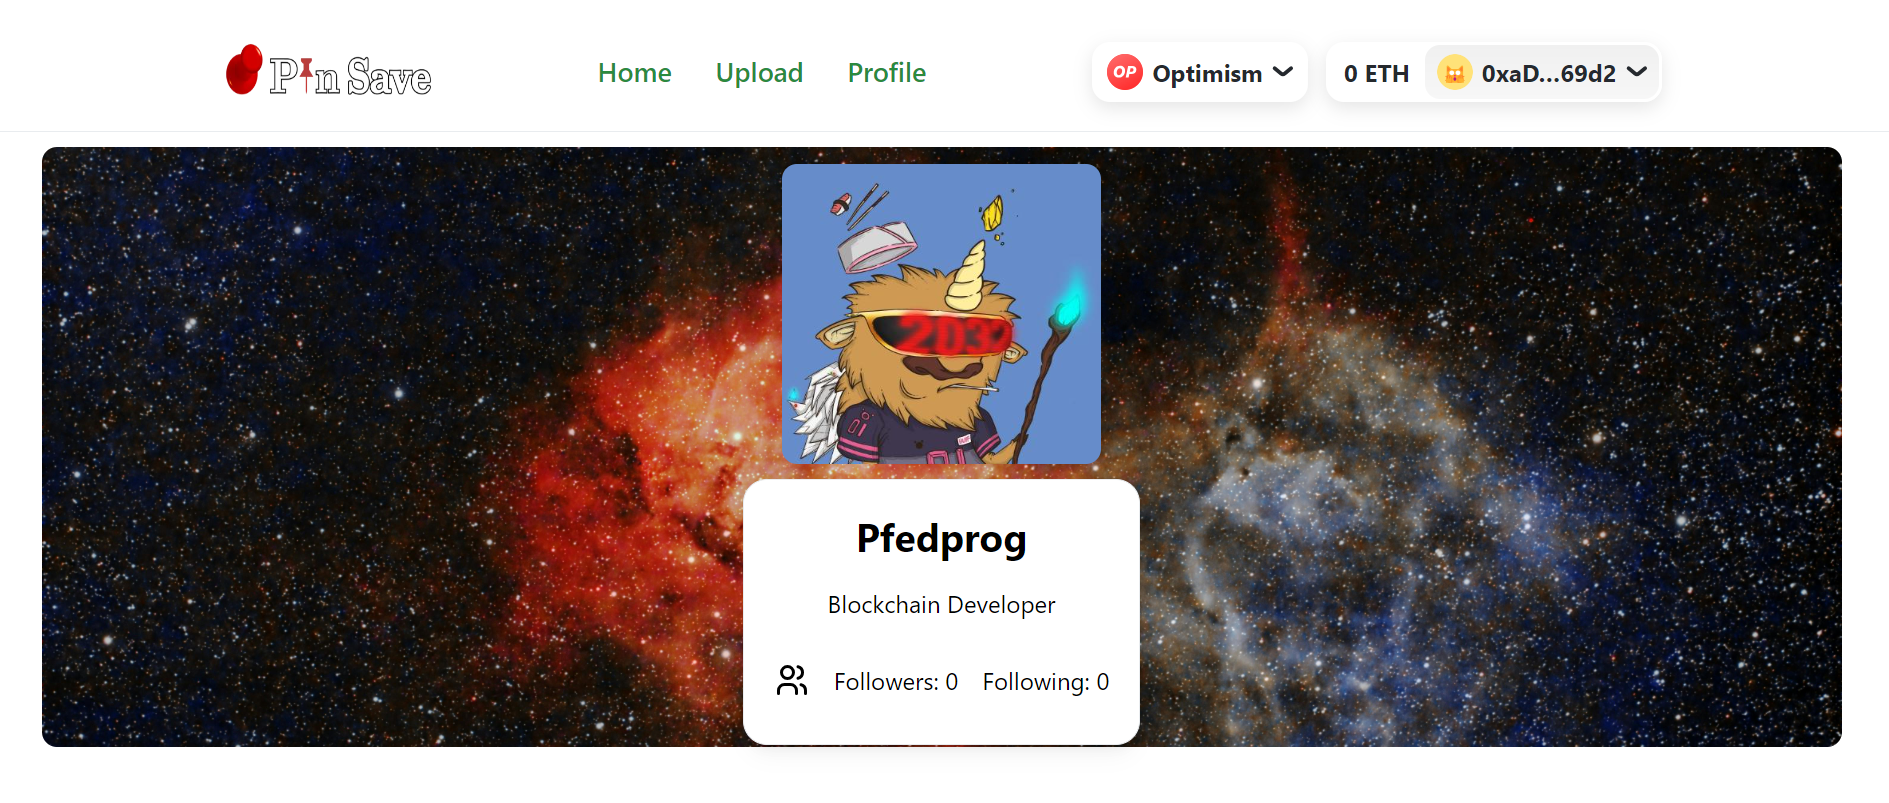
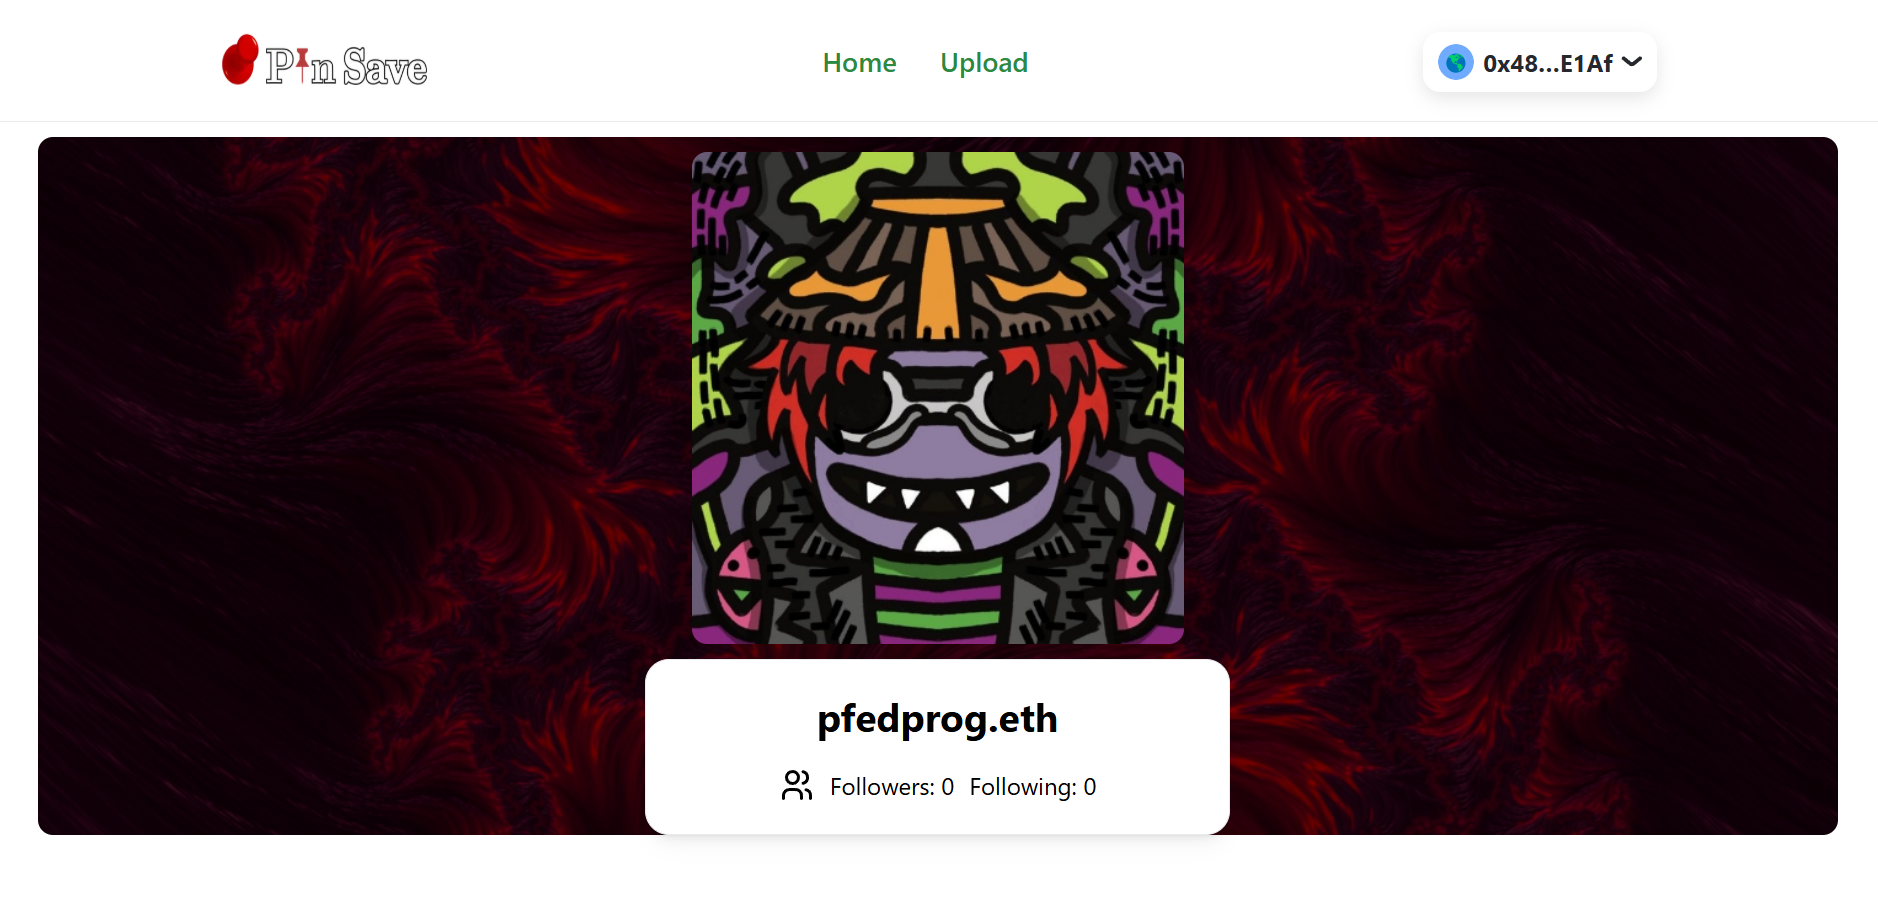
updated readme and assets

diff --git a/README.md b/README.md
@@ -28,11 +28,15 @@ Pin Save is a decentralized image, video sharing and content aggregation platfor
 
 - Decentralized feed of NFTs on Metis chain with decentralized storage on IPFS with Pinata:
 
-![decentralized feed](https://raw.githubusercontent.com/PinSaveDAO/PinSave-EVM/evm/assets/feed.png)
+![decentralized feed](https://raw.githubusercontent.com/PinSaveDAO/PinSave-Metis/blob/main/assets/feed.png)
 
 - Image posting:
 
-![Pin Save Upload](https://bafybeiaj46fxgxax6z3nd45n7p42rh7dbyweyssi3dunr3wfewh7ys2d7y.ipfs.nftstorage.link/)
+![Pin Save Upload](https://raw.githubusercontent.com/PinSaveDAO/PinSave-Metis/blob/main/assets/upload.png)
+
+- Profile Page with ENS:
+
+![Pin Save Upload](https://raw.githubusercontent.com/PinSaveDAO/PinSave-Metis/blob/main/assets/profile.png)
 
 ### Optimism Smart contracts
 
